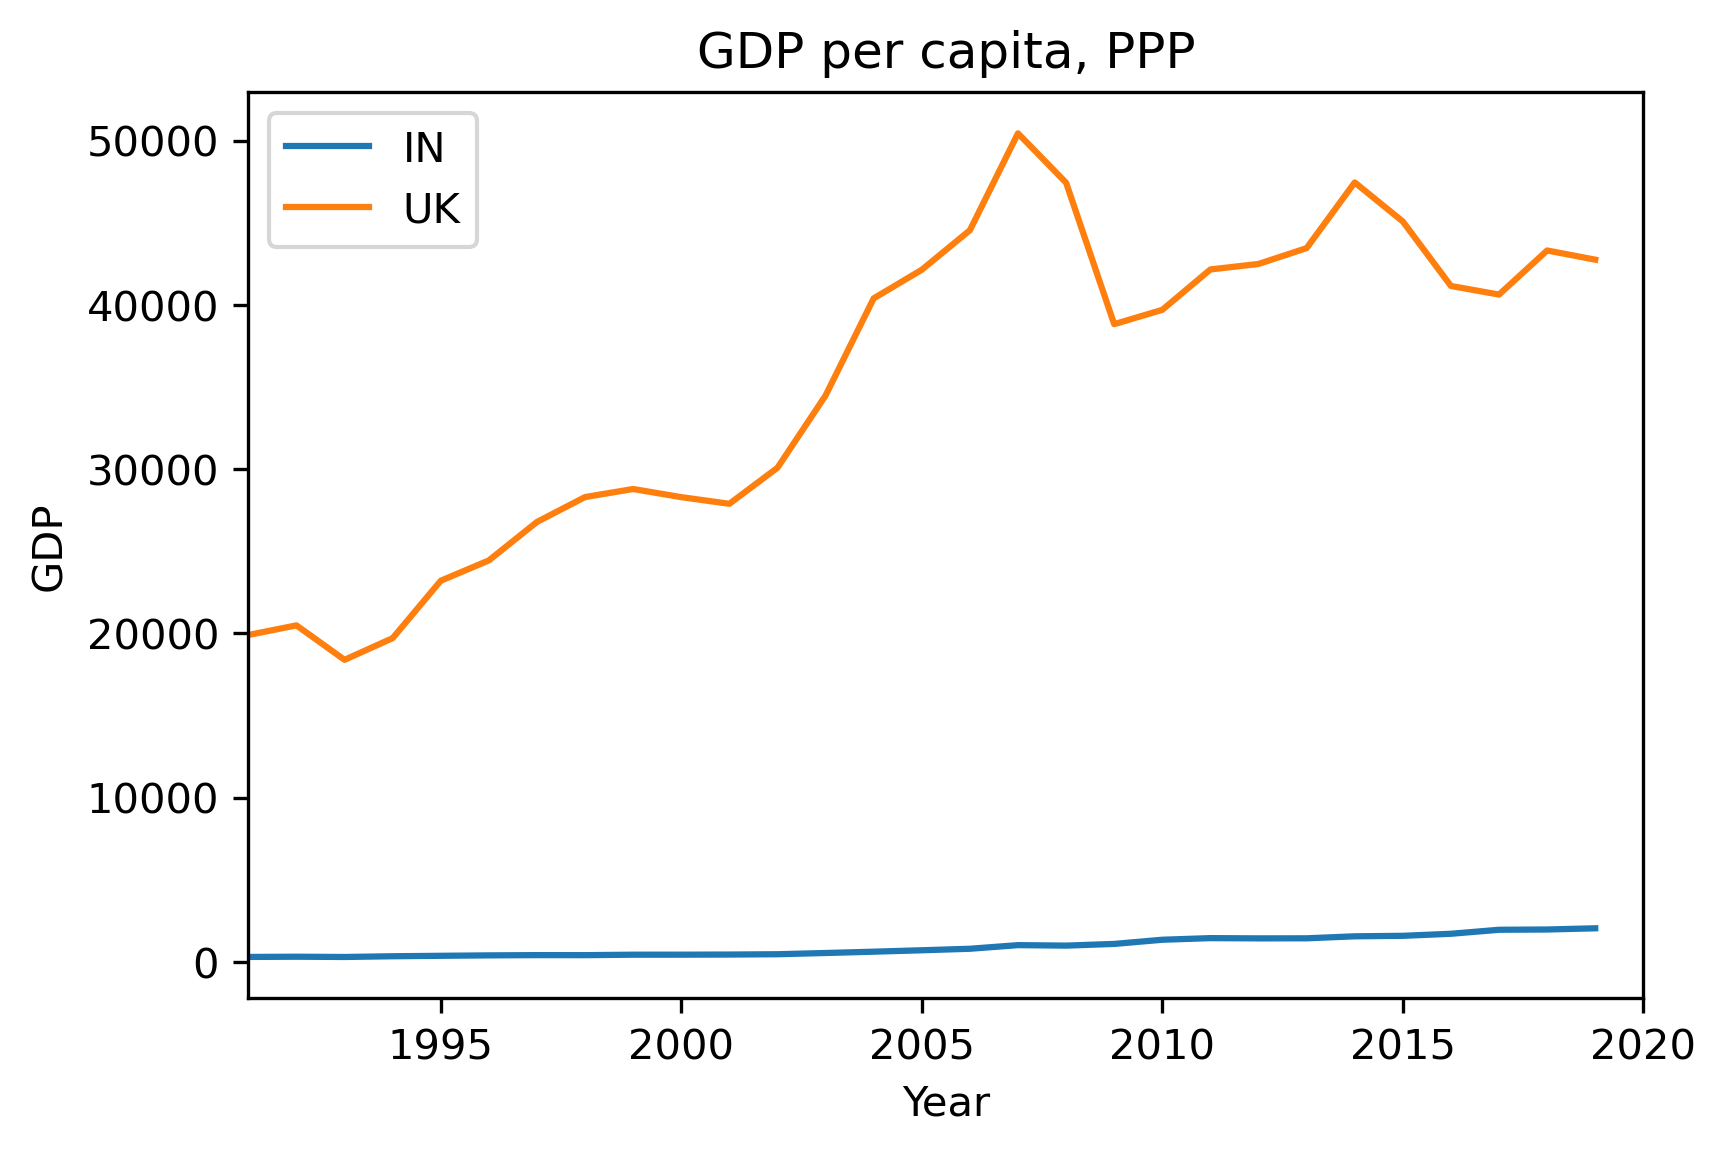
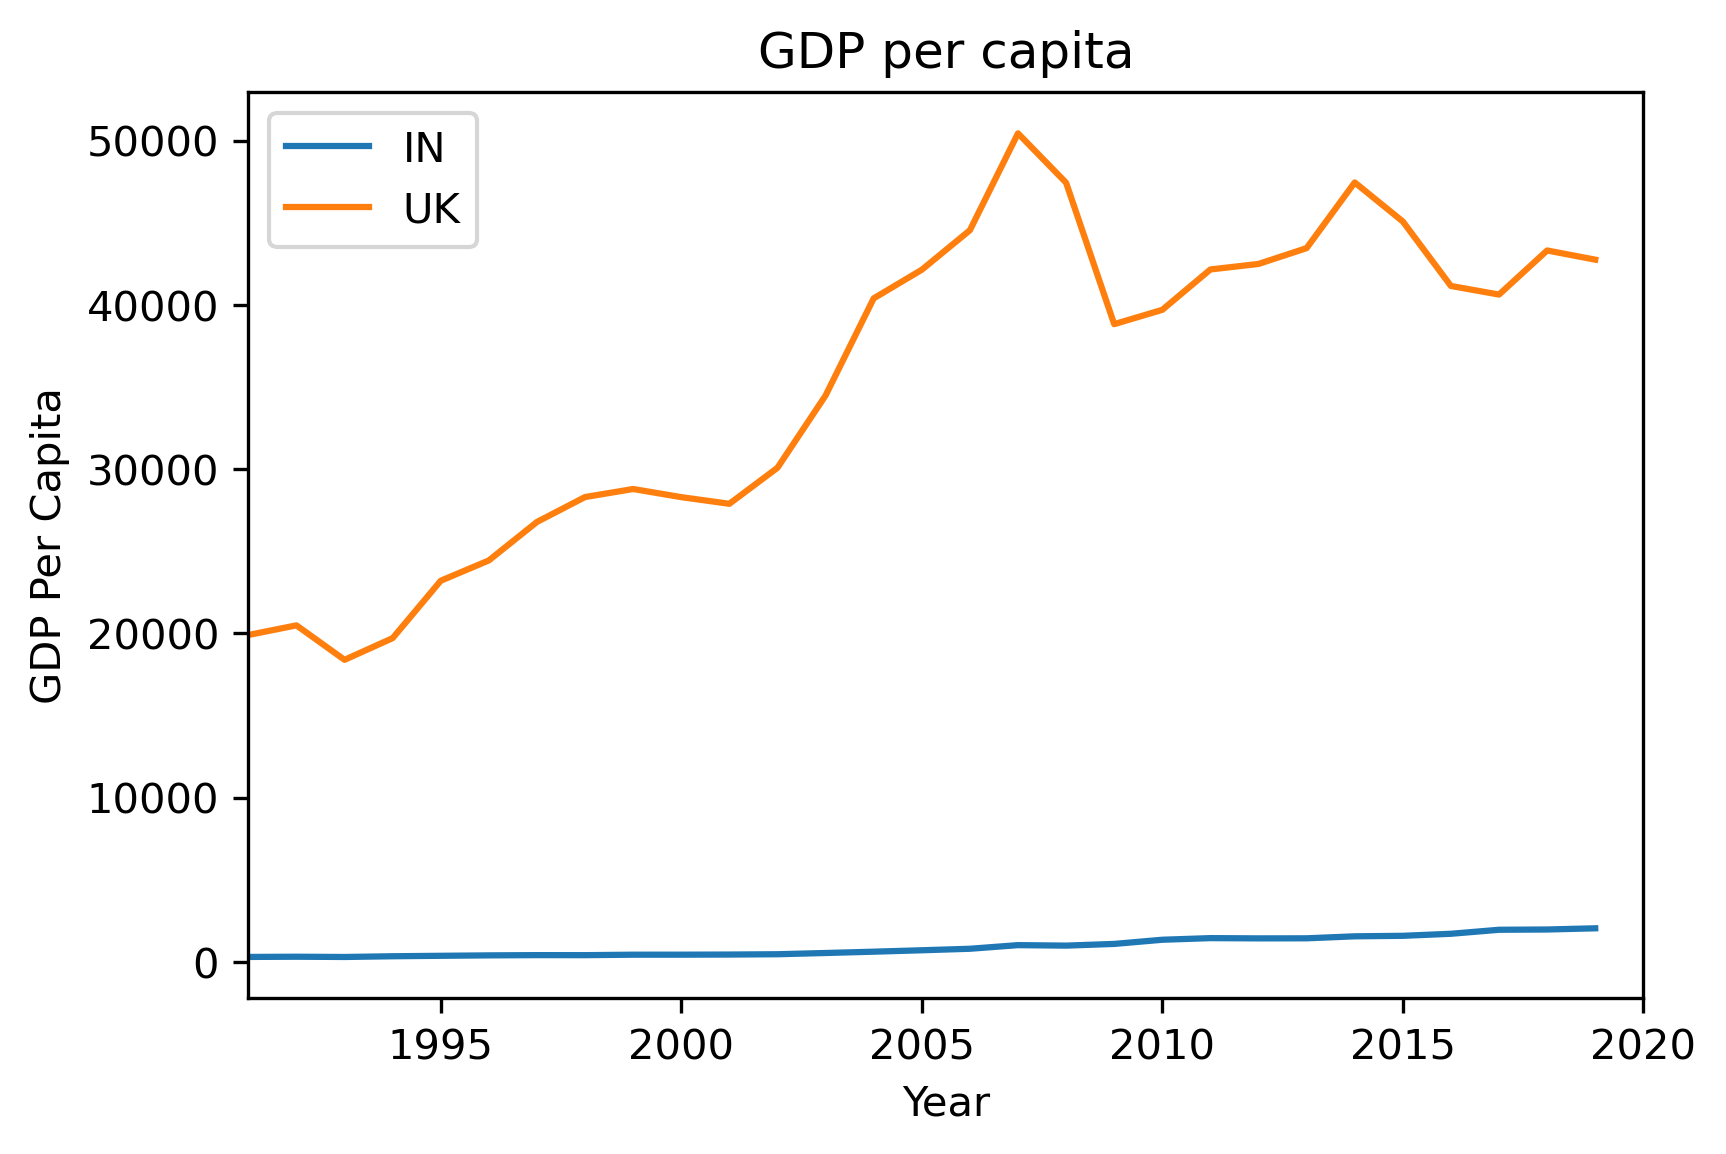
Minor changes, Final commit

Changed region(s): [[0.3992, 0.0312, 0.7063, 0.0624], [0.0, 0.3432, 0.0614, 0.5927]]

diff --git a/rahul_code.py b/rahul_code.py
@@ -109,6 +109,8 @@ pred_ind = curve_fun(pred_year,*param)
 plt.plot(df_co2t["year"],df_co2t["INDIA"],label="data")
 plt.plot(pred_year,pred_ind,label="predicted values")
 plt.legend()
+plt.xlabel("Year")
+plt.ylabel("CO2")
 plt.savefig("Co2_India_Predicted.png", dpi = 300, bbox_inches='tight')
 plt.show()
 
@@ -128,6 +130,8 @@ pred_ind = curve_fun(pred_year,*param)
 plt.plot(df_co2t["year"],df_co2t["UK"],label="data")
 plt.plot(pred_year,pred_ind,label="predicted values")
 plt.legend()
+plt.xlabel("Year")
+plt.ylabel("CO2")
 plt.savefig("Co2_UK_Predicted.png", dpi = 300, bbox_inches='tight')
 plt.show()
 
@@ -146,6 +150,8 @@ plt.plot(df_renewt["year"],df_renewt["fit_value"],c="red",label="fit")
 plt.fill_between(df_renewt["year"],low,up,alpha=0.5)
 plt.legend()
 plt.xlim(1990,2019)
+plt.xlabel("Year")
+plt.ylabel("Renewable energy(% of total energy use)")
 plt.savefig("Renewable_India.png", dpi = 300, bbox_inches='tight')
 plt.show()
 
@@ -173,6 +179,8 @@ pred_ind = curve_fun(pred_year,*param)
 plt.plot(df_renewt["year"],df_renewt["UK"],label="data")
 plt.plot(pred_year,pred_ind,label="predicted values")
 plt.legend()
+plt.xlabel("Year")
+plt.ylabel("Renewable energy(% of total energy use)")
 plt.savefig("Renewable_Prediction_UK.png", dpi = 300, bbox_inches='tight')
 plt.show()
 
@@ -185,9 +193,9 @@ plt.plot(df_gdpt["year"], df_gdpt["INDIA"])
 plt.plot(df_gdpt["year"], df_gdpt["UK"])
 plt.xlim(1991,2020)
 plt.xlabel("Year")
-plt.ylabel("GDP")
+plt.ylabel("GDP Per Capita")
 plt.legend(['IN','UK'])
-plt.title("GDP per capita, PPP")
+plt.title("GDP per capita")
 plt.savefig("GDP.png", dpi = 300, bbox_inches='tight')
 plt.show()
 
